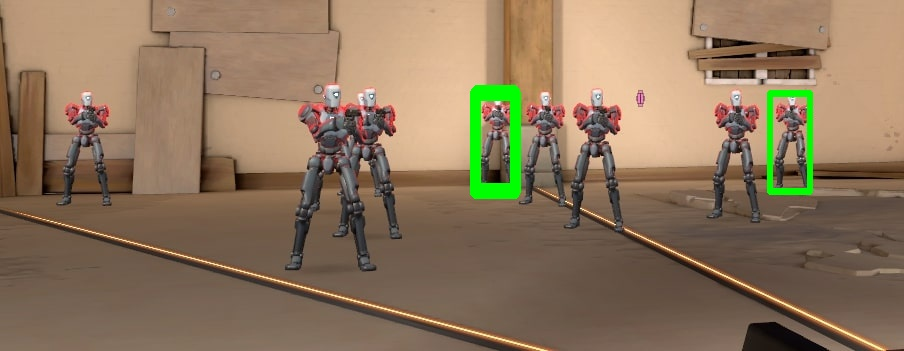
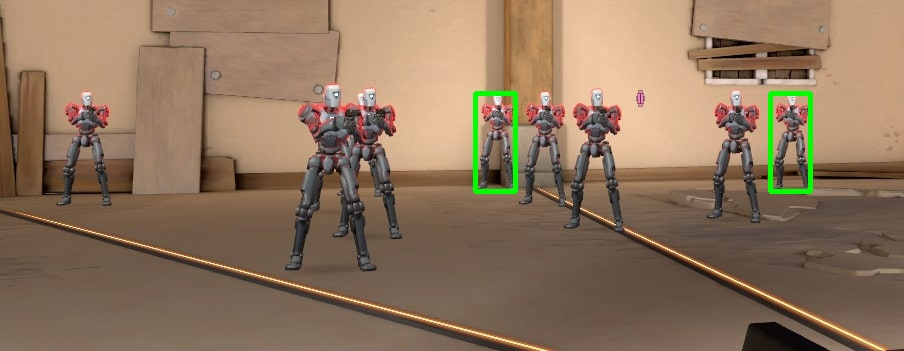
Comments

diff --git a/3-Group_Rectangles/Third.py b/3-Group_Rectangles/Third.py
@@ -19,6 +19,10 @@ locations = list(zip(*locations[::-1]))
 rectangles = []
 for loc in locations:
     rect = [int(loc[0]), int(loc[1]), target_w, target_h]
+    # Since the following function groupRectangles require at least two boxes to be considered as a "grouped" item,
+    # a single rectangle will be added in twice, so the function groupRectangles will actually group up the two same single
+    # boxes as a real result, instead of throwing it out
+    rectangles.append(rect)
     rectangles.append(rect)
 
 
